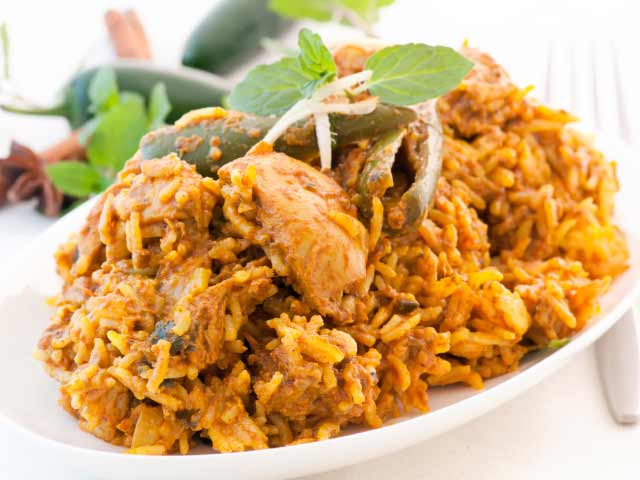
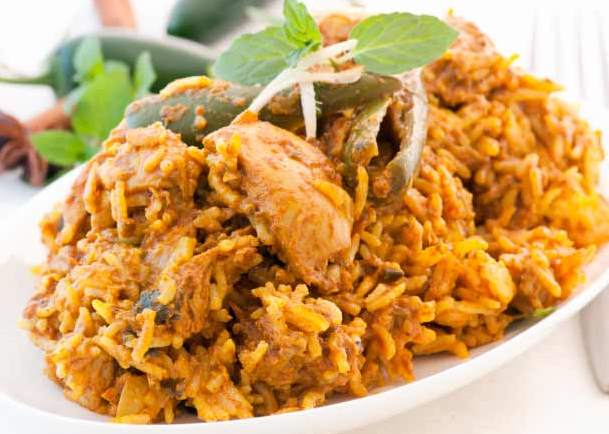
i added the scritp code

diff --git a/index.html b/index.html
@@ -2,7 +2,7 @@
 <html lang="en">
 <head>
 	<meta charset="UTF-8">
-
+	<meta name="google-site-verification" content="qLbrJUWrYAwiPl_HfupOMdfkt2OLz_dV0Npx3r9zv28" />
 	<title>Vihus - Any Item for less than 99/-</title>
 	
 	<!-- Main CSS file -->
@@ -27,6 +27,17 @@
 	  <script src="https://oss.maxcdn.com/libs/html5shiv/3.7.0/html5shiv.js"></script>
 	  <script src="https://oss.maxcdn.com/libs/respond.js/1.4.2/respond.min.js"></script>
 	<![endif]-->
+	<script>
+	
+	(function(i,s,o,g,r,a,m){i['GoogleAnalyticsObject']=r;i[r]=i[r]||function(){
+	(i[r].q=i[r].q||[]).push(arguments)},i[r].l=1*new Date();a=s.createElement(o),
+	m=s.getElementsByTagName(o)[0];a.async=1;a.src=g;m.parentNode.insertBefore(a,m)
+	})(window,document,'script','https://www.google-analytics.com/analytics.js','ga');
+
+	ga('create', 'UA-101261518-1', 'auto');	
+	ga('send', 'pageview');
+
+	</script>
 	
 </head>
 <body>
@@ -295,7 +306,7 @@
 						
 						<div class="col-md-4 col-sm-6 work-grid non-veg-biryanis">
 							<div class="portfolio-content">
-								<img class="img-responsive" src="images/menu/background/n02.jpg" alt="">
+								<img class="img-responsive" src="images/menu/background/n07.jpg" alt="">
 								<div class="portfolio-overlay">
 									<a href="images/works/portfolio-6.jpg"><i class="fa fa-camera-retro"></i></a>
 									<h5>non-veg-biryanis</h5>
